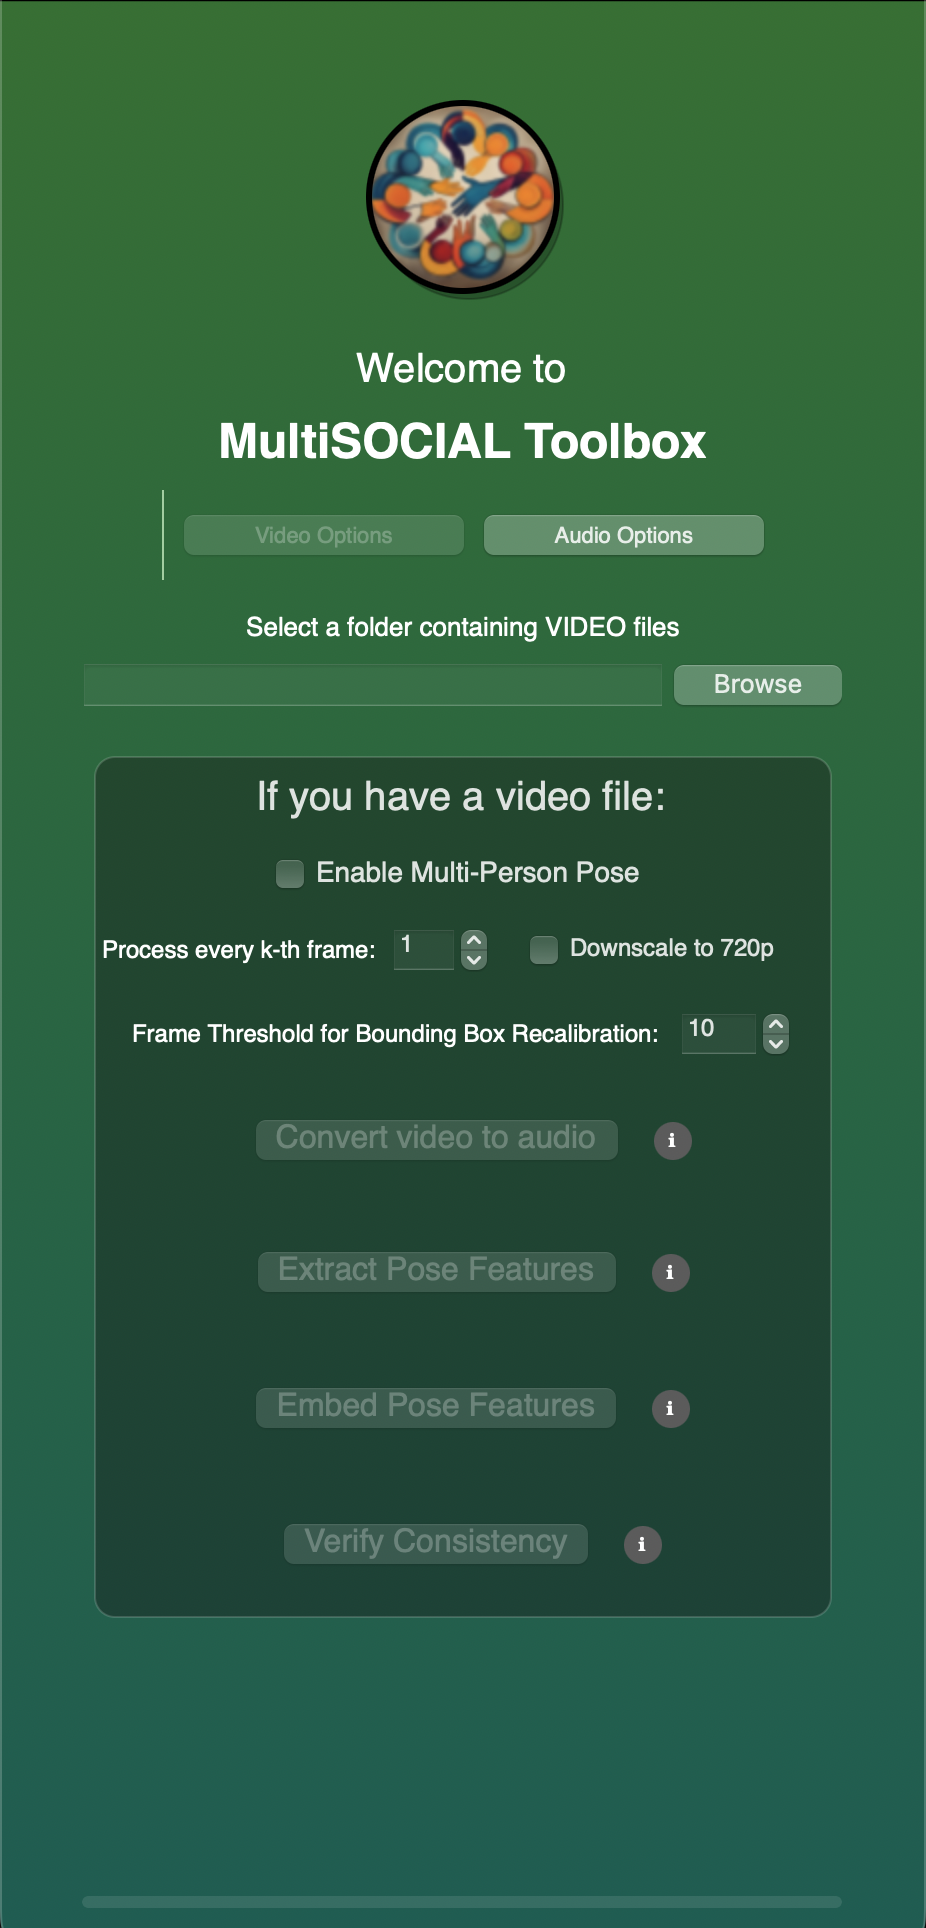
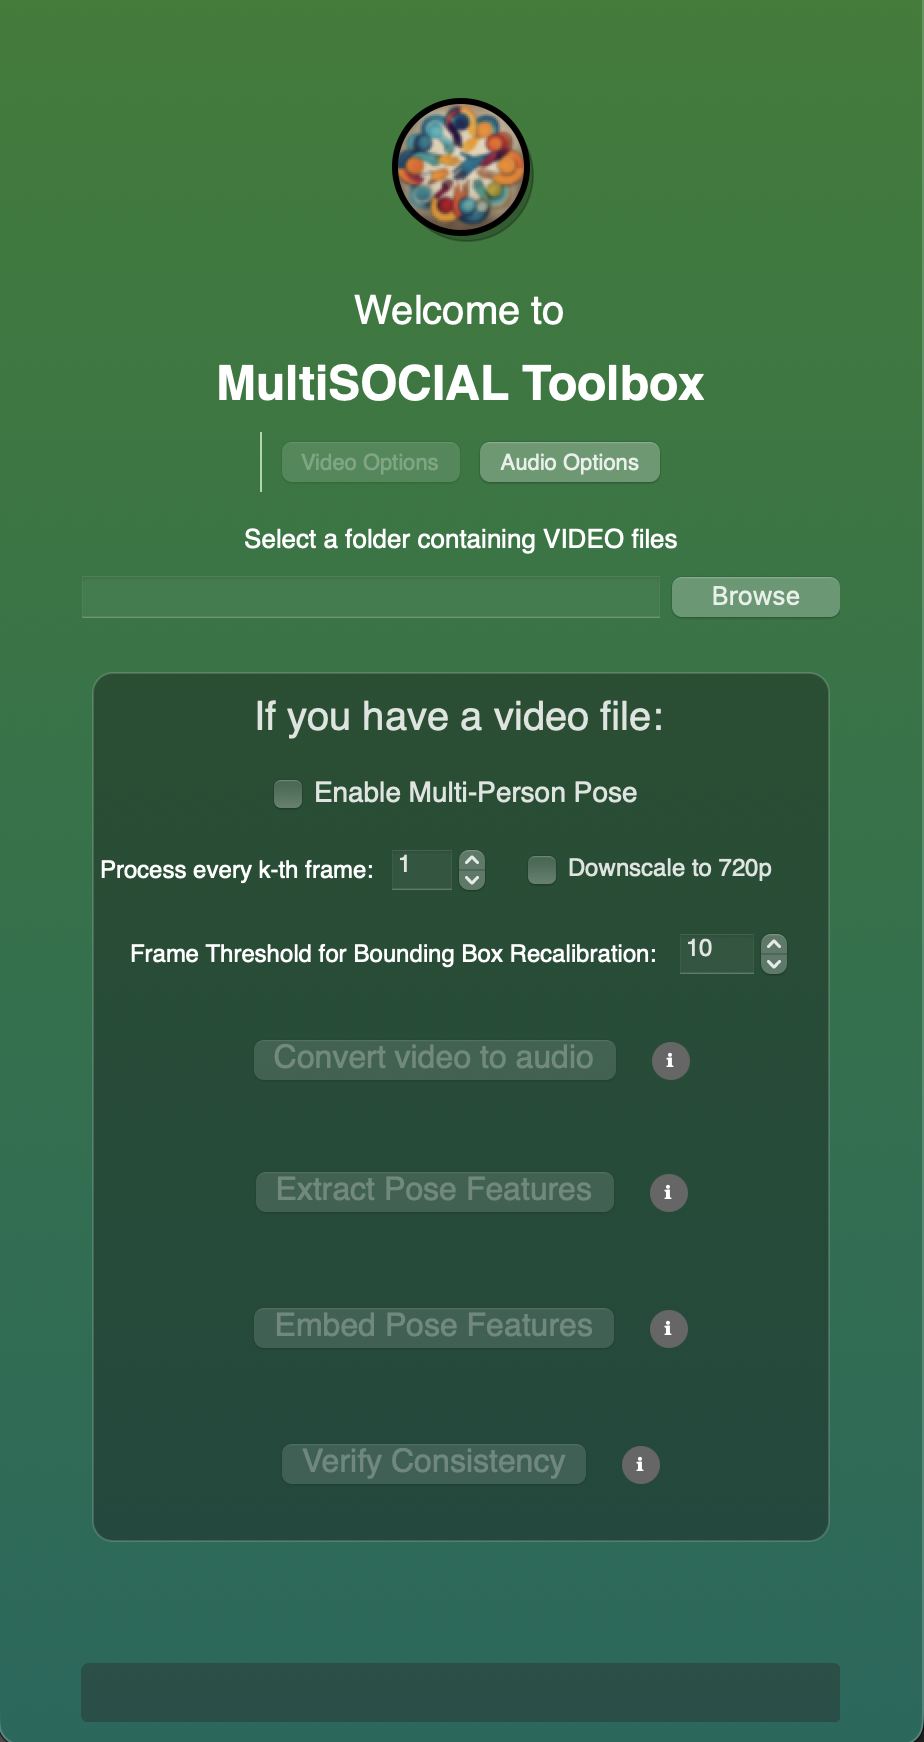
Update README and ApplicationUI.png for new features
Expanded supported video formats in the README and added details about new performance options for pose extraction. Fixed typos and clarified multi-person output descriptions. Updated ApplicationUI.png to reflect UI changes.

diff --git a/README.md b/README.md
@@ -33,7 +33,7 @@ Once launched, MultiSOCIAL Toolbox application looks like this.
 
 <img src="./assets/ApplicationUI.png" width="350">
 
-The toolbox takes two types of input: audio (.wav file) and video (.mp4 file).
+The toolbox takes two types of input: audio (.wav file) and video (.mp4, .avi, .mov, .mkv files).
 
 ## Video file
 **Convert video to audio** If you have a video file of human interaction and would like to convert it to a audio file in .wav format, this step is for you.
@@ -50,9 +50,13 @@ You should see three folders within the same folder as your input video.
 **Extract Pose Features** If you are interested in extracting pose or body key-points from the video, this step uses [MediaPipe](https://github.com/google-ai-edge/mediapipe/blob/master/docs/solutions/pose.md) to achieve this. This step returns 33 body pose land marks. For more details on MediaPipe, please check out the [official page](https://github.com/google-ai-edge/mediapipe/blob/master/docs/solutions/pose.md). 
   * Use the ``Browse`` button to locate your input video file.
   * Then press **Extract Pose Features** button. This step may take some time.
-  * Note: If your video has multiple people, you must select **Enable Multi-person Pose** for getting pose information of each people.
+  * Note: If your video has multiple people, you must select **Enable Multi-person Pose** for getting pose information of each person.
+  * **Performance Options:**
+    * **Process every k-th frame**: Skip frames to speed up processing (e.g., k=2 processes every other frame).
+    * **Downscale to 720p**: Reduce video resolution during processing for faster extraction.
+    * **Frame Threshold for Bounding Box Recalibration**: Controls how often person bounding boxes are re-detected in multi-person mode.
   * Once the pose features are extracted, you can find them in **pose_features** folder created before.
-  * **For multi-person mode**: Each outpur csv file will represent a single person's information (files will be named as {name of original video file}_multi_ID_0, {name of original video file}_multi_ID_1,etc.
+  * **For multi-person mode**: Each output csv file will represent a single person's information (files will be named as {name of original video file}_multi_ID_0, {name of original video file}_multi_ID_1, etc.).
   * **CSV format** Each row represents a frame, each column represents features. For each of the 33 body land marks, you should see 4 columns:
     * x and y: Landmark coordinates normalized to [0.0, 1.0] by the image width and height respectively.
     * z: Represents the landmark depth with the depth at the midpoint of hips being the origin, and the smaller the value the closer the landmark is to the camera. The magnitude of z uses roughly the same scale as x.
@@ -60,9 +64,8 @@ You should see three folders within the same folder as your input video.
 
 **Embed Pose Features** If you are interested in embedding body key-points extracted from Mediapipe on each frames, this step uses [MediaPipe](https://github.com/google-ai-edge/mediapipe/blob/master/docs/solutions/pose.md) to achieve this. 
   * Use the ``Browse`` button to locate your input video file.
-  * Then press **Embed Pose Features** button. A window will pop up where you will see each frame being processed and body key-points being embedded. [We are no longer supporting the real-time embedding as it makes other simultaneous processes slower]
+  * Then press **Embed Pose Features** button. The toolbox will process each frame and embed body key-points onto the video.
   * Once all the frames are processed, an output video will appear in the **embedded_pose** folder where your input video is located.
-  * **Note: Embed pose features only supports a single person video at this moment.**
 
 ### Verify Consistency (Pose QA)
 After extracting pose CSVs and generating embedded pose videos, you can run **Verify Consistency** to compare them.
@@ -175,7 +178,7 @@ We thank the authors and developers of ``MediaPipe``, ``OpenSMILE``, ``YOLOv5`` 
 
 ## Disclaimer
 
-Automated tools can be inaccurate and should be used after human verification for correctedness.
+Automated tools can be inaccurate and should be used after human verification for correctness.
 
 ## Help us improve this toolbox!
 [Please leave your feedback in this form.](https://docs.google.com/forms/d/e/1FAIpQLScGkEu-LfLAa_IGNOXG25trtMf8k12FFPymObBRDmLdPkAvxQ/viewform)
